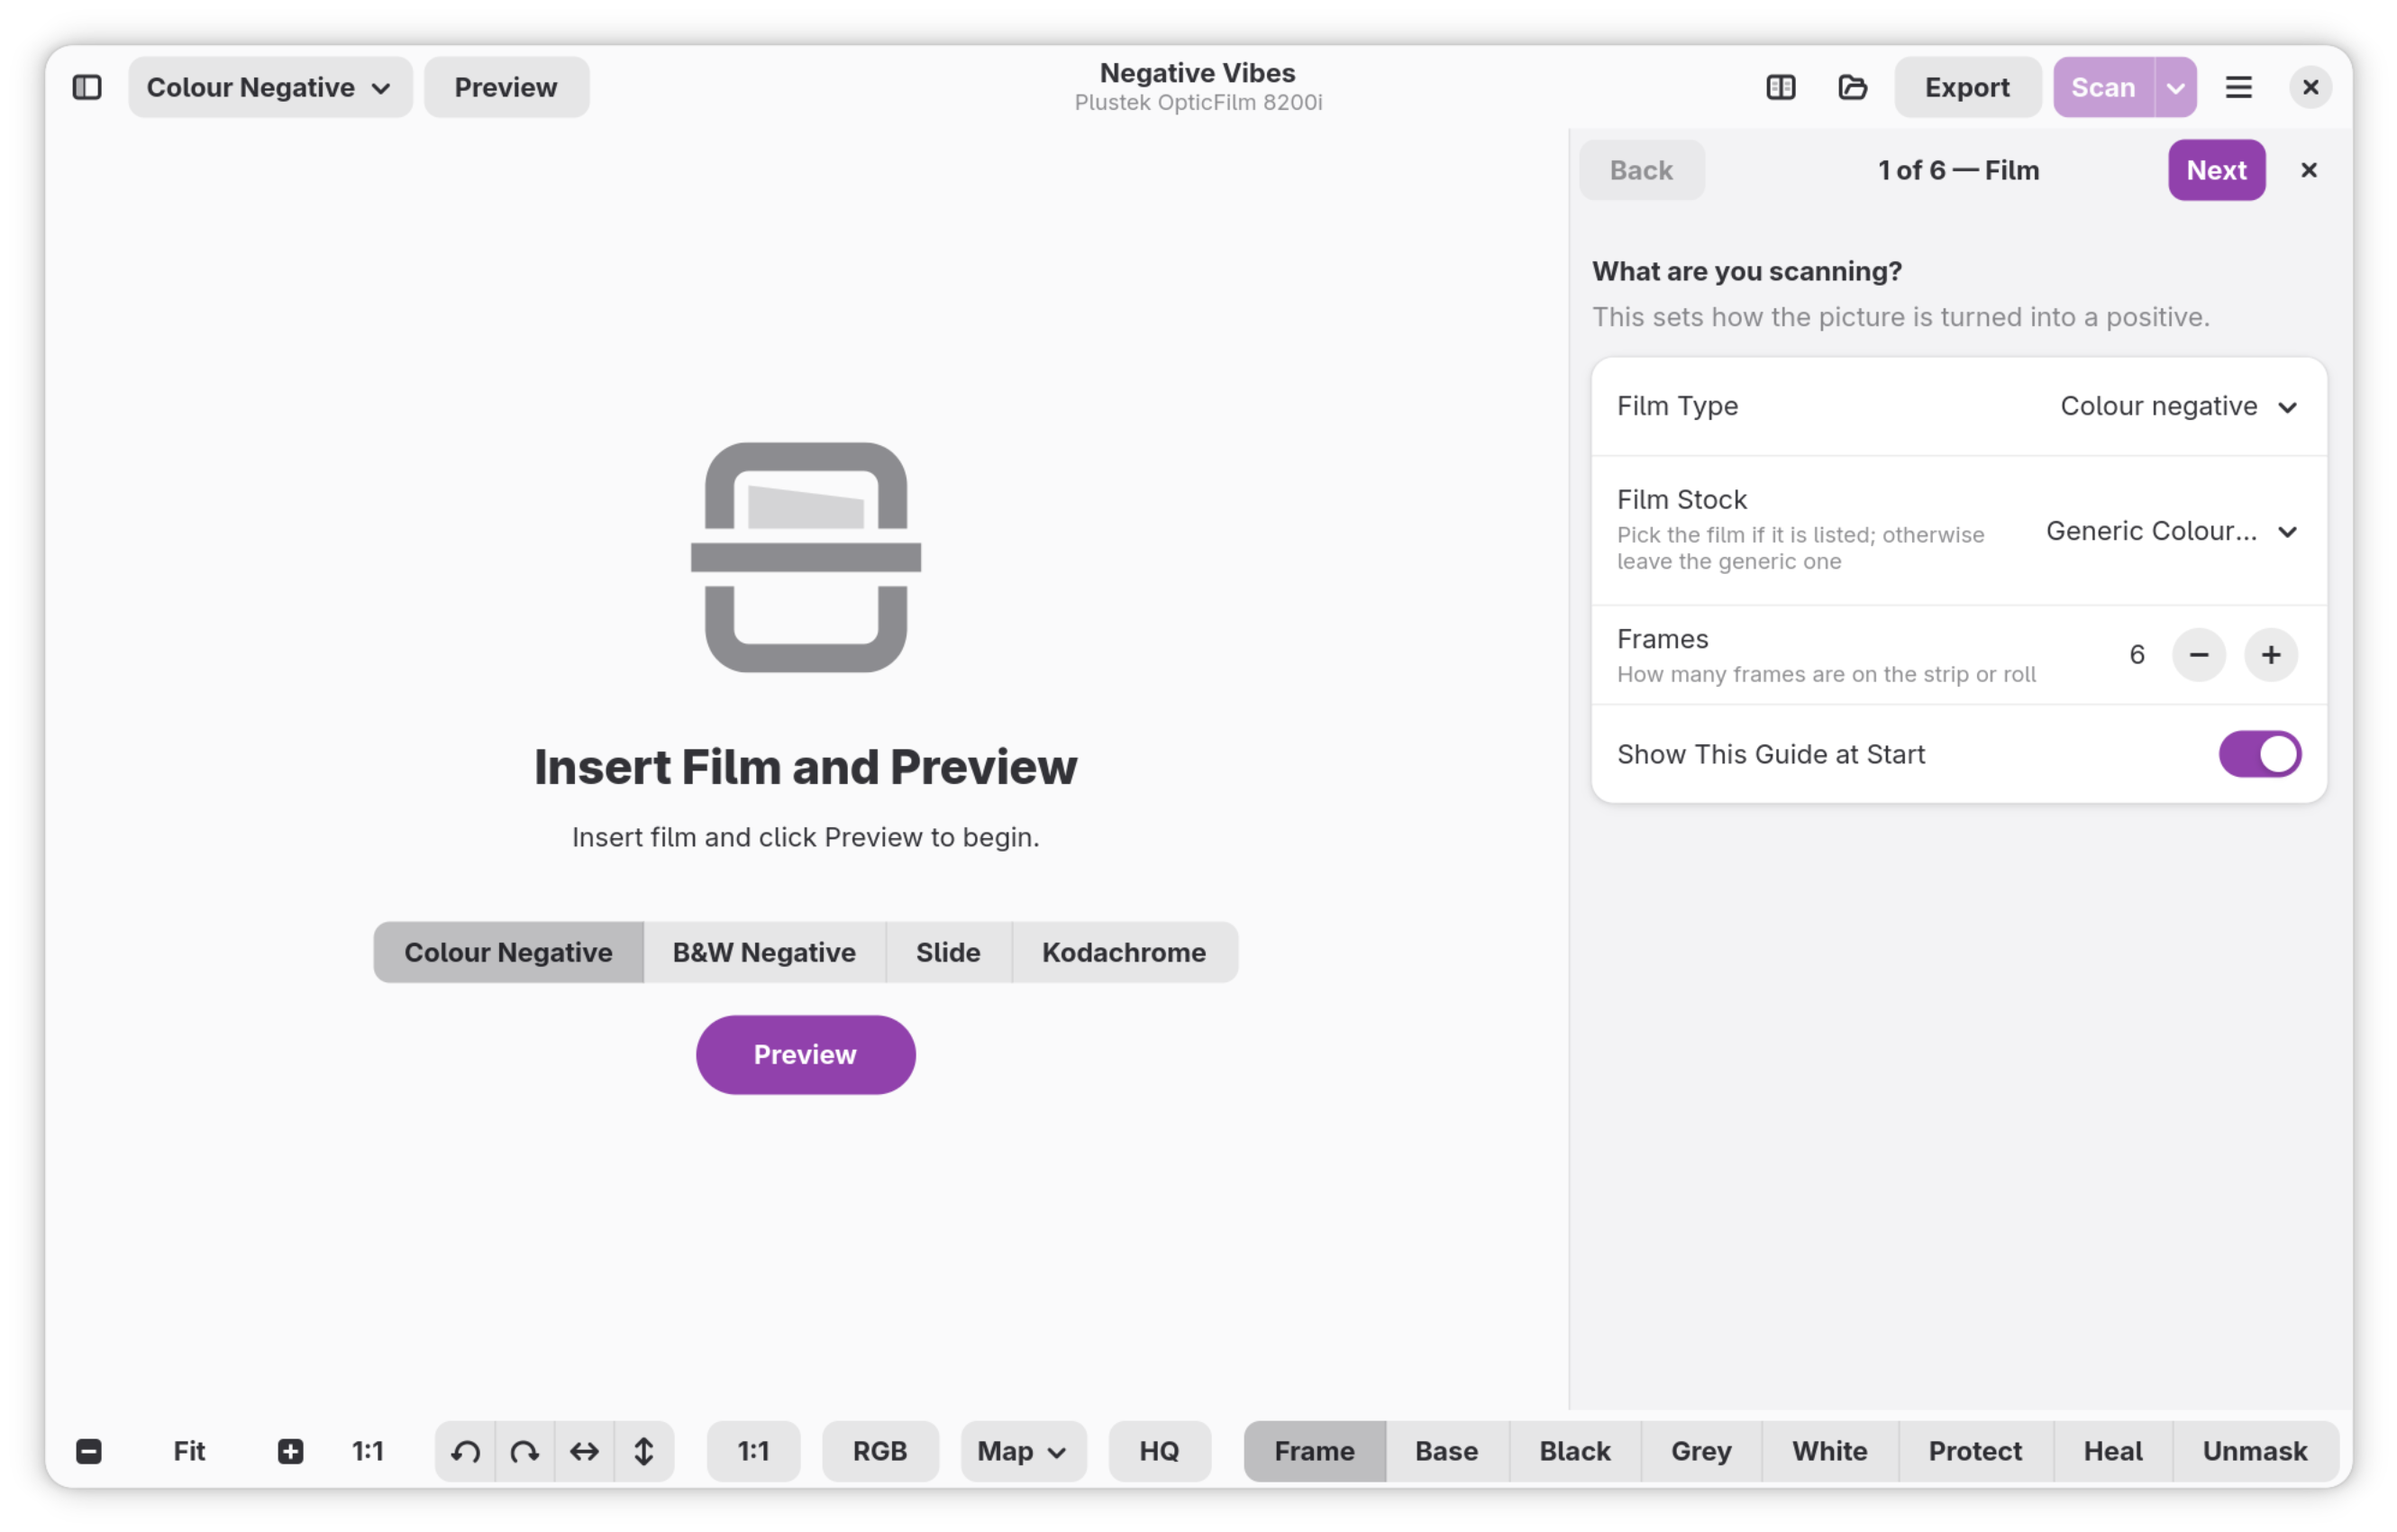
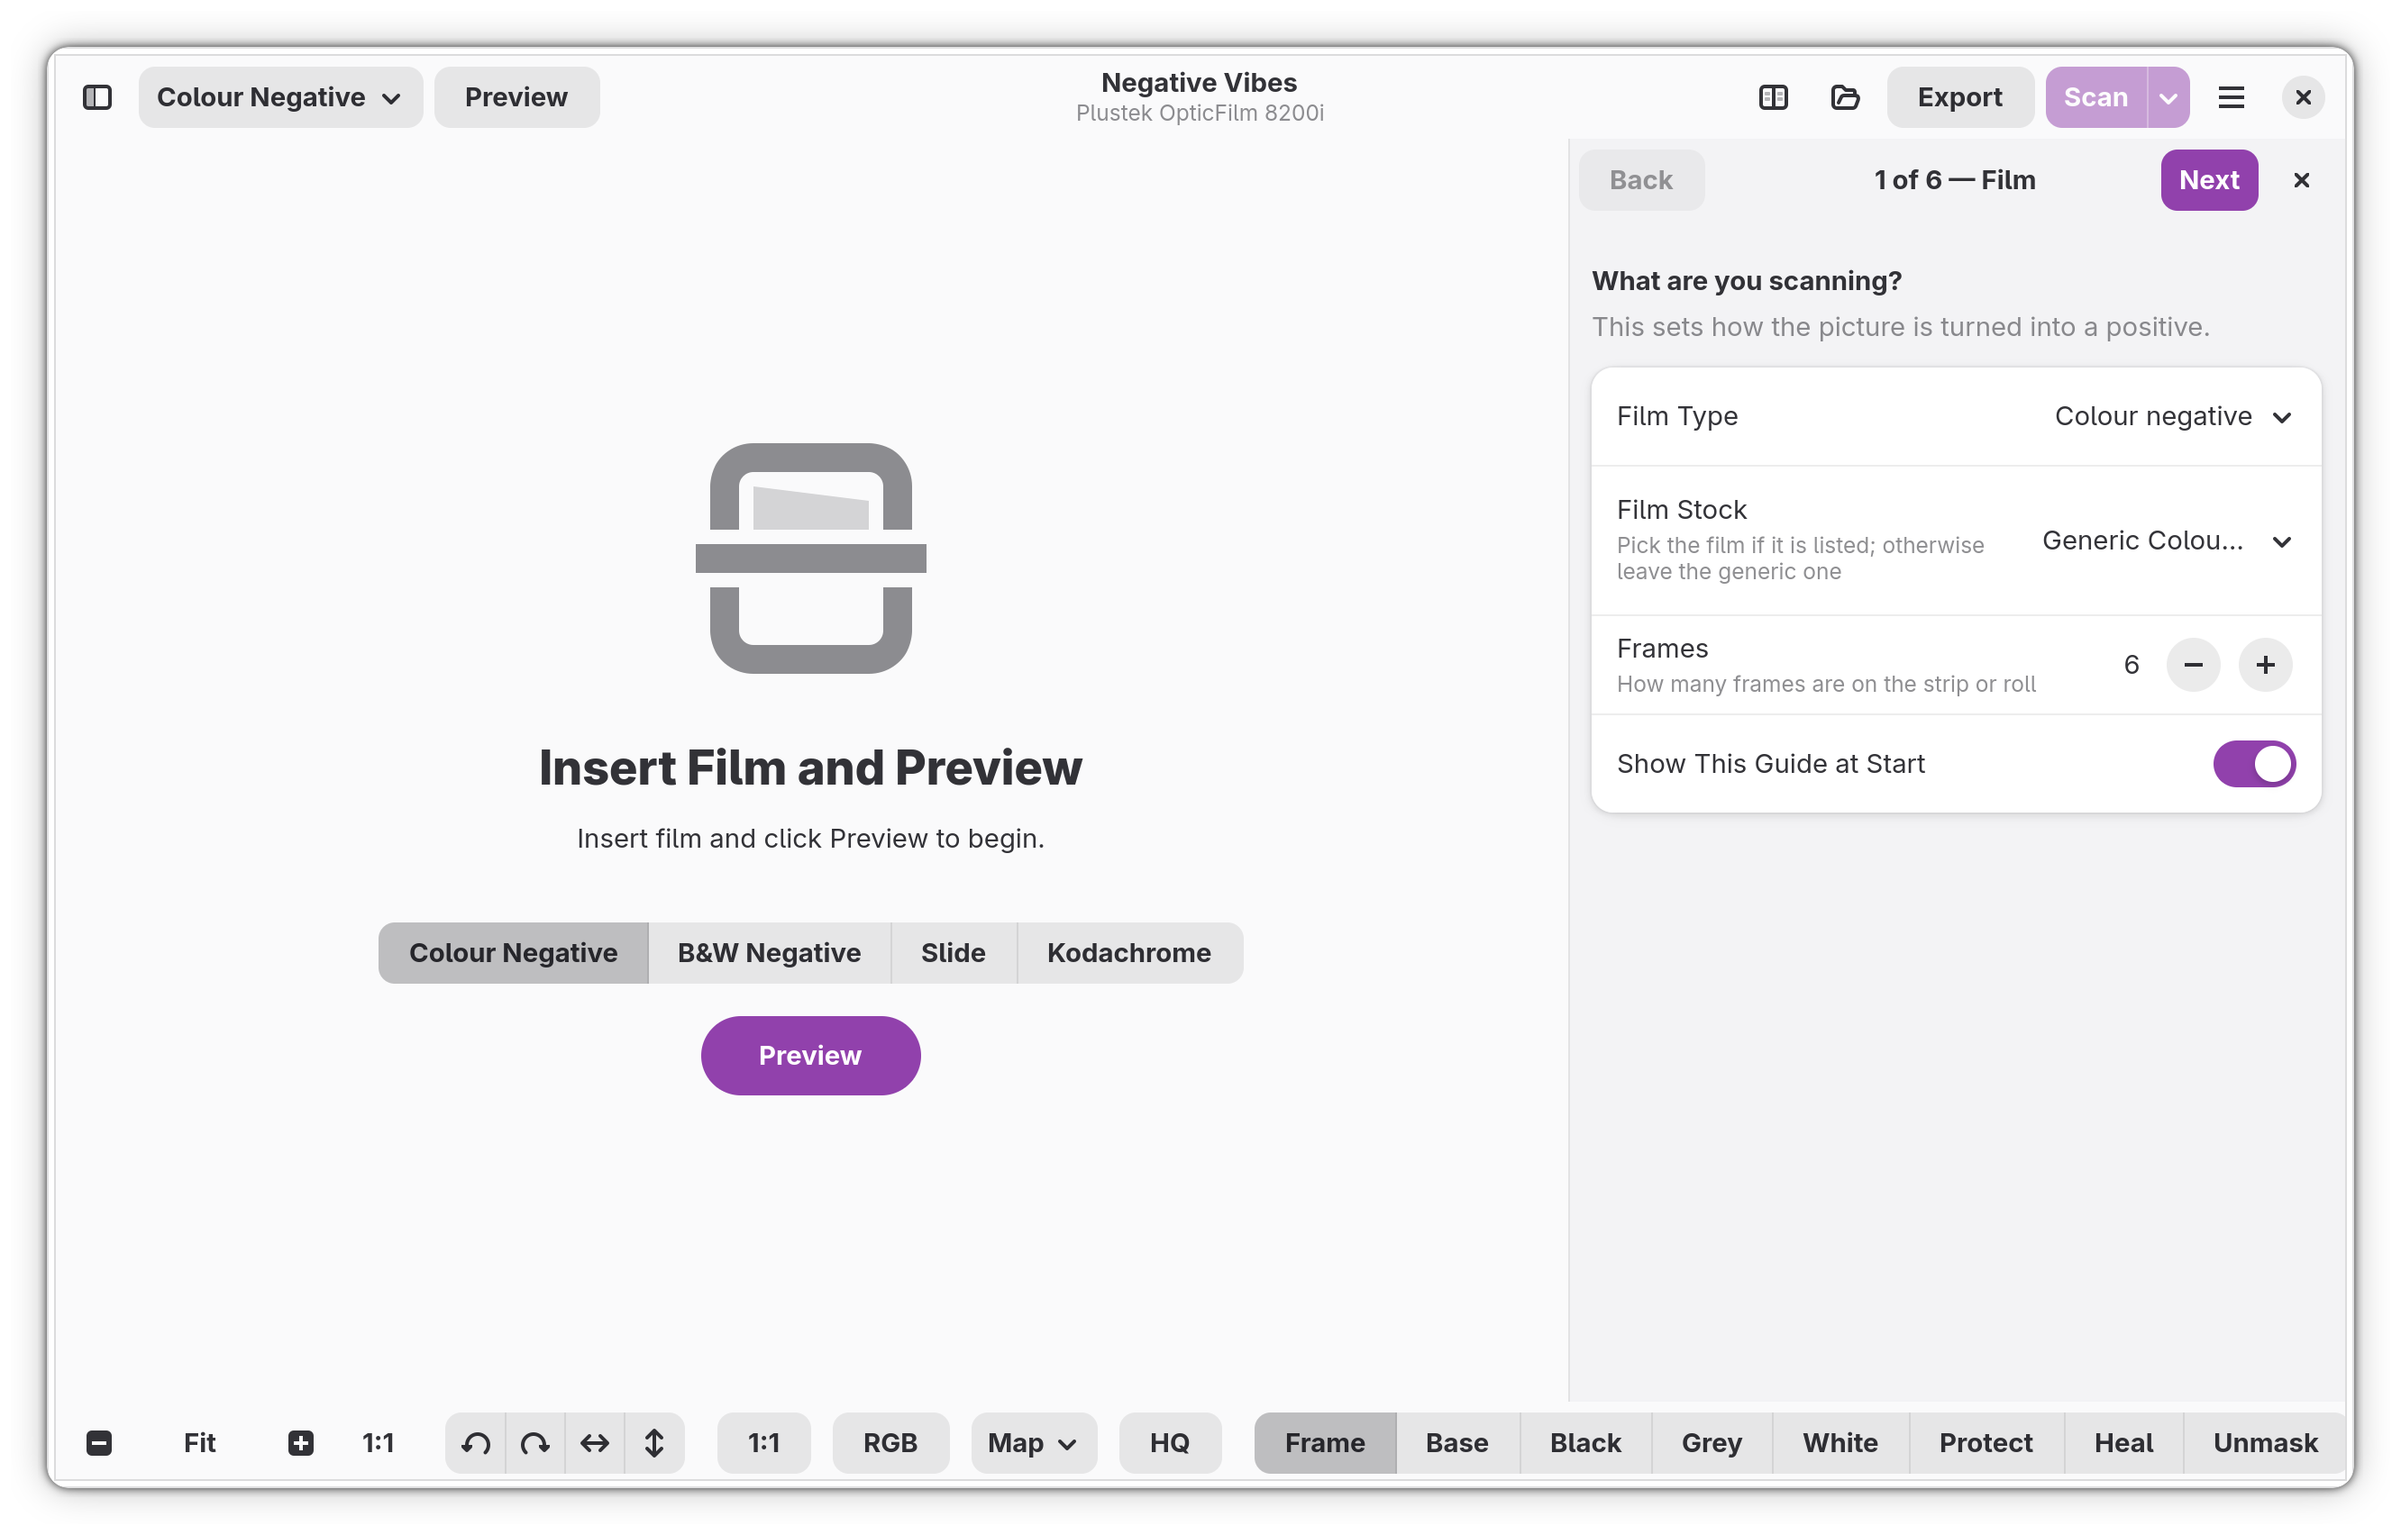
Remake the README screenshots from a script
The pictures in screenshots/ were taken by hand on whatever desktop was
running at the time, so they drifted: the ones replaced here predate the
scanner portal work and show neither the Choose Scanner page nor the
positive thumbnails in the frame list.

tools/screenshots.sh takes them again, and can take them again after the
next change. It starts its own X server, runs the application on it with a
fixed theme, font, accent colour and window size, and photographs each
window. Nothing it does reaches the desktop it is run from: the GTK and
GNOME settings come from a dconf database compiled here and opened
read-only, so no session bus is needed and nothing can be written back, and
the application's own state goes to a scratch directory that is deleted at
the end.

There is no window manager on that display, so windows arrive square and
without a shadow. frame() rounds the corners at libadwaita's 12 px and
paints a two-layer shadow, matched against the alpha profile of the old
pictures: they ran 0, 1, 3, 9, 21, 135, 255 inward from the edge and these
run 0, 0, 4, 10, 20, 102, 255. The result is the same 2664x1704 for a
1280x800 window at scale 2 that GNOME's own window screenshot gave.

Two states need the pointer and the keyboard: the Output page of
Preferences with TIFF and then with DNG, which needs the view switcher and
the Format dropdown, and the two dialogs, which open with the first row
focused and so draw a focus ring until something is clicked. Both are done
[…]

diff --git a/README.md b/README.md
@@ -33,6 +33,12 @@ page), and the Scan a Roll guide sits beside the picture instead of in a window 
 *A colour negative previewed and converted to a positive, with the tools for frame, film base,
 black, grey and white points, dust protection and healing along the bottom.*
 
+![The page shown when no scanner has been allowed yet, leading with Choose Scanner](screenshots/choose-scanner.png)
+
+*With the scanner portal the application sees only the scanners you have allowed, so an empty
+list means "none chosen yet" and the page leads with Choose Scanner… Opening raw scans and rolls
+is offered below it, because neither needs a scanner.*
+
 <p>
   <img src="screenshots/preferences.png" alt="Preferences, General page" width="32%">
   <img src="screenshots/preferences-outputformat1.png" alt="Preferences, Output page with TIFF selected" width="32%">

diff --git a/DESIGN.md b/DESIGN.md
@@ -1121,11 +1121,11 @@ negative-vibes/
 │  ├─ goldens/                   golden images
 │  ├─ sane-config/               private SANE configuration for tests
 │  └─ reports/                   comparison reports (none yet)
-├─ tools/                        scan-check.py, progress-marks.py
+├─ tools/                        scan-check.py, progress-marks.py, screenshots.sh
 ├─ docs/
 │  └─ design-history.md          the original plan and per-slice build notes
 ├─ build-aux/                    Flatpak manifests (release, Devel, PortalTest, flathub/), Meson helper
-└─ screenshots/                  used by the README
+└─ screenshots/                  used by the README, remade by tools/screenshots.sh
 ```
 
 Conventions:
